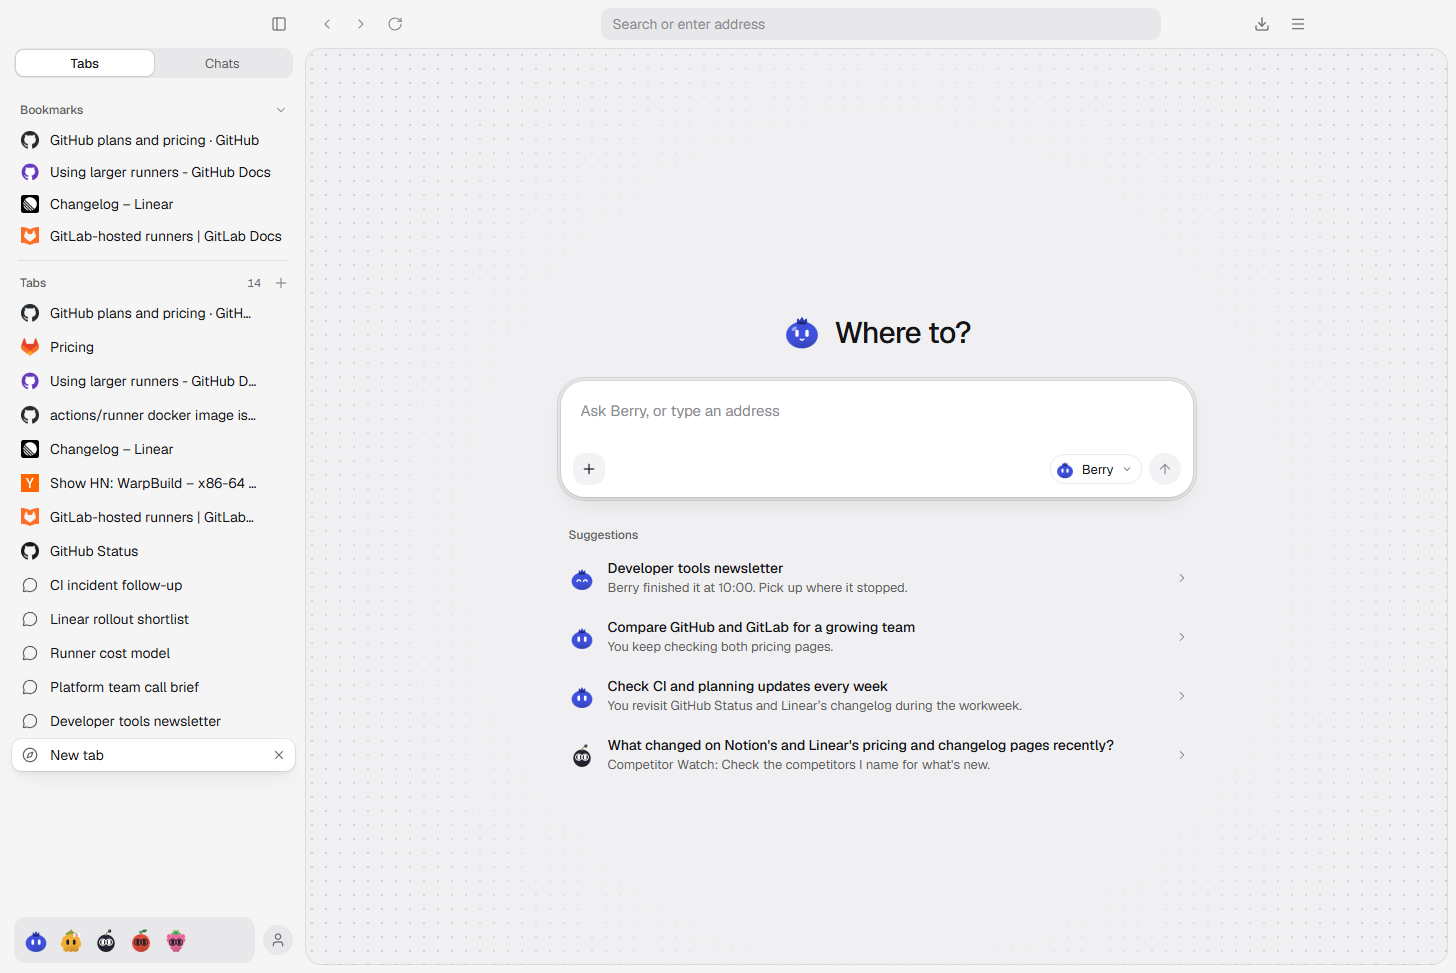
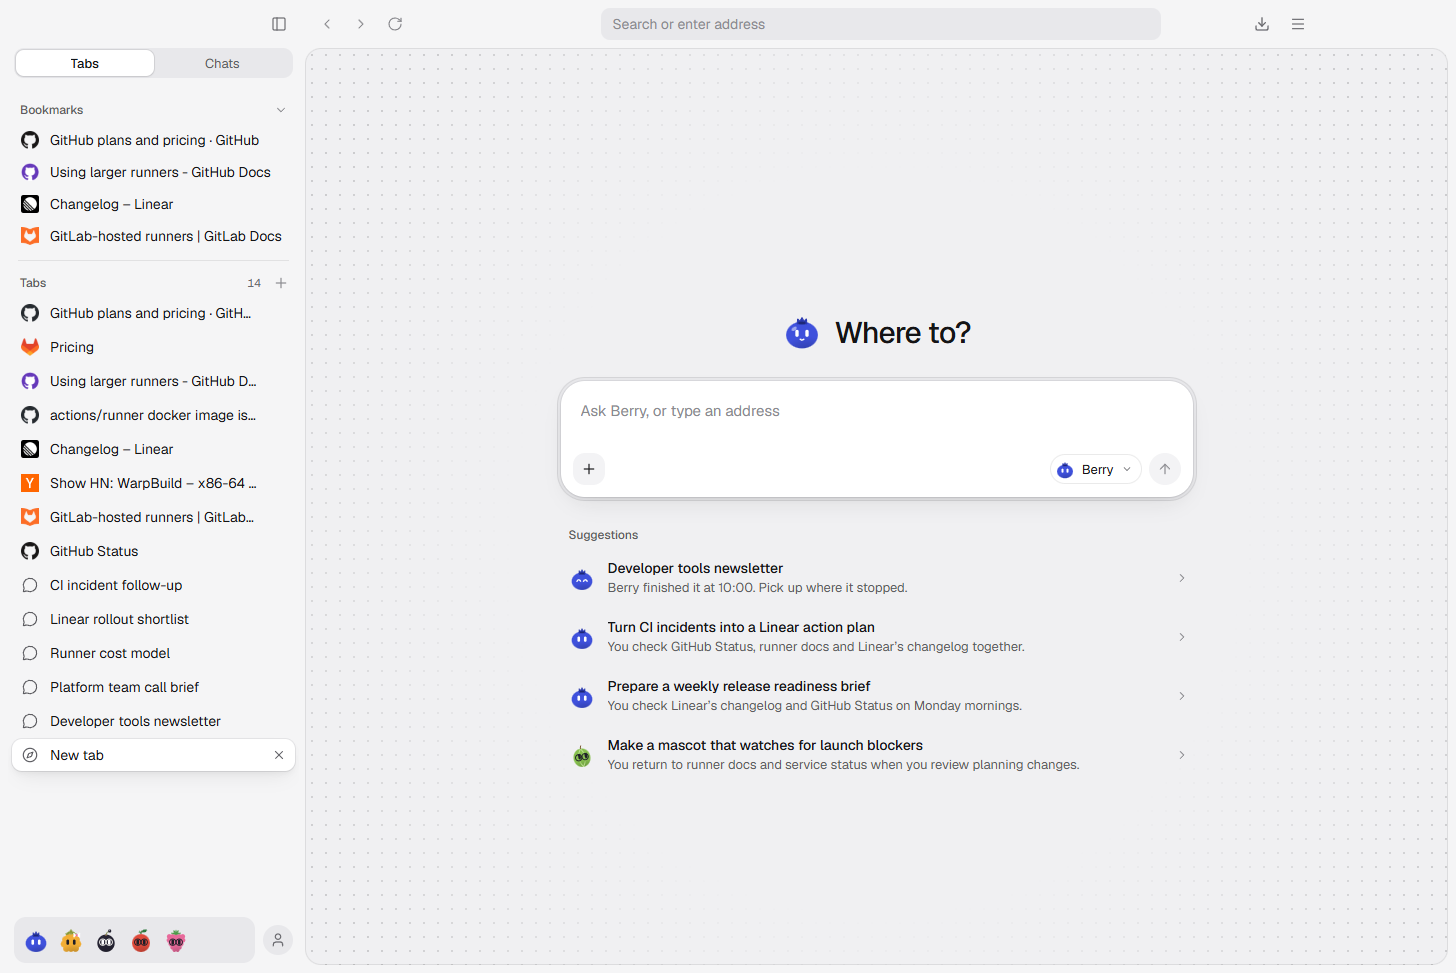
Restore the original README feature descriptions

Changed region(s): [[0.3709, 0.6166, 0.7727, 0.8016]]

diff --git a/README.md b/README.md
@@ -1,55 +1,93 @@
 # Blueberry
 
-Blueberry is an AI browser that can do jobs in your tabs. Ask Berry to research a question, compare sites or follow a process you repeat. Watch it work beside the chat and step in when it needs you.
+An AI browser that works on your behalf. Make mascots for the jobs you repeat, and it notices what you do and offers to take it over.
 
-![Berry compares GitHub and GitLab plans while the GitHub pricing page is visible beside the chat](docs/images/working-view.webp)
+![The new tab page suggests turning CI incidents into a Linear action plan, preparing a weekly release-readiness brief, and setting up a mascot to watch for launch blockers](docs/images/new-tab.webp)
 
 ## What it does
 
-### Browse and work in the same window
+Blueberry is a full web browser, one you can use every day even without the AI: tabs, history, bookmarks, downloads, find, zoom and site permissions, in a quiet light-grey window with white sheets for pages. Berry, a blueberry, does jobs in the browser when you ask, and you can make a small family of berries beside it, each with its own name, look, instructions and limits.
 
-Blueberry has tabs, history, bookmarks, downloads, find, zoom and site permissions. Choose a vertical sidebar or horizontal tabs, and a light or dark appearance. Small grids of dots show what a mascot is doing and when it needs you.
-
-The new tab page is where you type an address or ask a mascot to do something. It shows jobs waiting for you and suggests chats to pick up, jobs to try, or routines and mascots based on your recent activity. Import history from Chrome, Brave or Edge to help it get started. On macOS you can also import from Arc.
-
-![The new tab page suggests comparing GitHub and GitLab and checking weekly updates from GitHub Status and Linear](docs/images/new-tab.webp)
+Strawberry has all of that too. The sections below are where Blueberry tries to do better than Strawberry does today, each starting from what's missing there. What I say about Strawberry is how I understand it as of November 2026.
 
 ### Jobs that keep going when you leave
 
-A job can open tabs behind yours. The working view shows live pictures of the tabs it uses, so you can follow along without leaving the chat. Save a job as a routine to run it on a schedule.
+Strawberry's routines run on your own computer, so they only run while it's open and awake. The Monday 08:00 report doesn't happen if the laptop is closed in your bag, and a long job means leaving the lid open with the browser busy until it's done. You end up working around your computer's schedule.
 
-With a cloud browser and a runner set up, cloud jobs and routines keep going while your computer is off. You can bring along sign-ins for sites you choose. The phone page lets you start cloud jobs, review approvals and take over when a site needs you. For jobs running on your computer, you can connect your own Telegram bot to answer from your phone.
+In Blueberry, a job or scheduled routine can run in a browser in the cloud instead. With the runner set up, close the laptop on the train and the job keeps going. The morning routine runs at 08:00 whether the Mac is on or not, and the summary is there when you open it. The job gets its own browser on Browserbase, signed in to the sites you chose to bring along, so it never takes over your tabs or slows your computer down. A small runner on Railway starts and follows it with the Mac off, as the same mascot with the same limits and the same approvals as at your desk. You can start one from the phone app, or from ChatGPT or Claude, wherever you are.
 
-### Your mascots and the Gallery
+![Berry compares larger runners in a cloud chat with GitHub Docs visible in the working view](docs/images/cloud-chat.webp)
 
-Berry is the built-in blueberry mascot. A profile that starts with only Berry also gets four starters from the Gallery. They are Plain Words, Competitor Watch, Meeting Prep and Newsletter Builder. The Gallery also includes Prospector, Follow-up, Lead Qualifier, Talent Scout and Pipeline Tidy.
+### Answering from your phone
 
-Make your own mascot with a name, a berry look, instructions and limits on its sites and tools. A mascot can suggest remembering a preference after a job. You choose what it keeps and can remove it later.
+Strawberry marks a chat that needs you, for a sign-in or anything else, but only on the computer. That's where agents lose most of their time: not doing the work, but waiting for you. Start four jobs before lunch, one stops for a 2FA code and another for a yes, and you come back an hour later to two jobs that never moved.
 
-You can review a Gallery mascot's instructions and permissions before adding it. With publishing set up, you can share a mascot's public page. Open in Blueberry takes the reader to that mascot's review.
+In Blueberry, you can answer job approvals and questions from your phone. With notifications on, it buzzes at the table, you tap Allow or type the code, and the job carries on while you eat. You come back to finished work instead of a queue of questions, so the hour away still counted. Jobs in the cloud show up in the phone app, which you add to your home screen, and where you can start a new job on the way back too. Jobs on your Mac come through your own Telegram bot. On either you can allow or refuse a step or answer a question. For a cloud sign-in you type the code into the live page, and for a job on your Mac the Telegram bot can pass the code to the held tab without giving it to the model. With several cloud jobs running at once, it's one list on your phone for all of them, so none of them sits idle waiting for you. Telegram is a channel behind a small interface, so WhatsApp or iMessage could come next.
 
-![Your mascots in dark mode, with Berry and the four starters added to a new profile](docs/images/your-mascots.webp)
+![A cloud job on the phone asks to open filtered GitHub issues, with Allow and Don't allow](docs/images/phone-approval.webp)
+
+### Your mascots, from ChatGPT and Claude
+
+Strawberry lets you connect MCP servers to it, but it isn't one itself, so nothing else can use it. Most people will keep ChatGPT or Claude open next to whatever browser they use, so Blueberry doesn't try to replace them. It gives them your browser. Claude Code and Claude Desktop on the same computer can hand whole jobs to your mascots over MCP, enabled in Settings > Connections > Claude and other apps, and with the runner and relay set up, so can ChatGPT and Claude on the web. The chat keeps its threads and plans, and the mascot brings your logins and what it sees in the browser. Plan outreach in ChatGPT, then ask it to have a mascot find the twenty leads, and it does it in your browser, signed in. You get something out of Blueberry without switching browsers all at once, which also fits where Strawberry seems to be heading, as an agent platform rather than only a browser.
+
+![A chat from Claude Code shows Berry’s runner migration brief](docs/images/claude-code.webp)
 
 ### Show Berry how
 
-Open Show Berry how from Routines, do the job once in the browser and press **Done**. Read the notes, leave out any steps you don't need, and turn what's left into a draft routine. It watches the tab in front while recording and keeps passwords out of the notes.
+Strawberry's advice for making a routine is to talk it through with your companion, which still means describing the job well enough in words, and that's harder than doing it. It has no built-in way to just show it. In Blueberry you press Show Berry how, do the job once, and press **Done**. Berry writes up what it saw as notes you can read and trim, and a cheap model turns them into a routine with numbered steps and the values that might change. It watches only the tab in front, only between start and **Done**, and never keeps what's typed into a password or payment field.
 
-![The What I watched page shows the steps Berry recorded while researching hosted runners and a button to turn the notes into a routine](docs/images/show-berry-how.webp)
+![The recording review shows seven steps for researching larger runners before turning them into a routine](docs/images/show-berry-how.webp)
 
-### Use Blueberry from other apps
+### The Gallery
 
-You can turn on Berry on the desktop and start a browser job from another app. The desktop mascot works in Blueberry's tabs.
+Strawberry gives each companion a public page you can send to someone, and nine official companions to pick from, but there's nowhere to browse what other people made. That's a real gap: a new user often can't see why they'd want more than one assistant. The Gallery shows them: browse the mascots other people use for sales, recruiting or research, and add one before you've even thought of the job yourself. It also doubles as marketing, since people share their mascots and see how often they're added. It has starter mascots for work, such as Prospector, Meeting Prep and Competitor Watch, and, with a server set up, the mascots other people published. Every entry shows its instructions and permissions word for word before you add it, and the copy is yours from then on. Each published mascot also has a public page you can send to a colleague, whose Open in Blueberry button opens its review in the app through a `blueberry://` link. A link never adds or runs anything.
 
-Claude Code and Claude Desktop can hand jobs to Blueberry through the local MCP connection. With the cloud relay set up, ChatGPT and Claude can start jobs too. You can also opt in to running relay jobs on your Mac while Blueberry is open.
+![The Gallery shows the starter mascots and what each one is for](docs/images/gallery.webp)
+
+### Suggestions that keep coming
+
+The hard part of a new agent is knowing what to ask it. Strawberry uses onboarding to make its first suggestions. Its companion reads your imported history and what you tell it, then suggests your role, apps to connect and a first task, and the Routines page offers routine ideas such as a morning summary or industry news. Strawberry also offers personalized ideas in its Knowledge hub. I haven't seen it suggest a new companion based on repeated browsing. In Blueberry, suggestions on the new tab page keep coming from what you actually do. At most about once an hour, a cheap model reads a digest of your recent browsing, chats and routine runs and proposes a prompt, a routine or a new mascot, and code checks each one against what it cites before it shows. They change as your week does. On the first day, Blueberry can bring in the last 90 days of history from Chrome, Brave or Edge, or from Arc on a Mac, in Settings > Privacy > Bring in history, so the first suggestions are already about you.
+
+![Berry compares GitHub and GitLab plans with the GitHub pricing page beside the chat](docs/images/working-view.webp)
+
+### Berry on the desktop
+
+In Strawberry, work starts inside the browser, but most work happens in other apps. You're in Slack or Mail, see something worth looking into, and hand it to Berry with `Alt+Space` (`⌥Space` on a Mac) without switching apps. Turned on in Settings > Mascots > On your desktop, Berry waits tucked behind an edge of the screen, above every app. The job runs in the browser where you're signed in. It never reads the screen, the clipboard or another app. Later it could work on the desktop itself.
+
+![Berry’s desktop composer is open at the edge of the Windows screen](docs/images/desktop-berry.webp)
+
+### Next: Nests, instead of chat threads
+
+Work with AI agents still happens in chat threads. Each thread starts from zero, so you explain the job again every time you open a new one, and five jobs running at once means five threads to scroll through. I'm trying a different shape on the [`nest`](https://github.com/Luddeforsberg/blueberry-browser/tree/nest) branch. A Nest is a board where each card is one mascot's chat. A line from one card to the next means the second continues from the first, with everything the cards before it found. Ask for something bigger and Berry lays it out as cards you can change before anything runs. A card with a table can run once for each row, and the board keeps growing over days rather than finishing. It's still being built, so it isn't on `main` yet.
+
+To try it: `git checkout nest`, then follow [Running it](#running-it).
+
+### The rest
+
+Your mascots, routines on a schedule, jobs that work in tabs behind yours with a live picture of them beside the chat, and mascots that keep a habit only when you say yes and show every word they keep. Strawberry has all of these, and they work much the same here. Blueberry needs them because everything above is built on them. The same goes for the safety rules below, which every AI browser needs.
+
+The Your mascots page starts with Berry, Plain Words, Competitor Watch, Meeting Prep and Newsletter Builder on a fresh profile.
+
+![Your mascots shows Berry and the four starter mascots with their limits in dark mode](docs/images/your-mascots.webp)
+
+## How it grows
+
+Three of the features above are also how Blueberry gets users and keeps them.
+
+- **Every shared mascot is a landing page.** A published mascot gets a public page showing what it's told, what it's allowed to do, and an Open in Blueberry button. People share the mascots they make, the add count tells the next person it's worth trying, and each share brings someone new to Blueberry.
+- **It starts where people already are.** Through the relay, people in ChatGPT and Claude can use your mascots without switching browsers. They get something out of Blueberry first and switch later.
+- **It keeps giving people a reason to come back.** Most people drop a new agent because they don't know what to use it for. Strawberry uses onboarding preferences for new-tab suggestions. In Blueberry they keep coming from what you actually do, including new mascots for the jobs you repeat, so a week in there's still something new worth handing over. Importing your history means even the first ones are about you.
 
 ## Safety
 
-- By default, a mascot asks before taking an action the app marks as risky. The approval card shows the exact action and why it needs permission. If the page changes after you allow it, the action is canceled. Cloud runner jobs ask at least as often as the default setting.
-- Blueberry enforces a mascot's site and tool limits in the browser tools.
-- A mascot hands over the tab for a sign-in, code or CAPTCHA and waits until you give it back. Only you can approve an action or complete a handoff.
-- The working view sends its pictures only to the browser window.
+- By default, a mascot stops before anything risky on an approval card with the exact sentence of what will happen, and does nothing if the page changed after you allowed it. A job on the cloud runner never asks less than that.
+- Blueberry enforces a mascot's limits in the tool layer, where they can only narrow what it can do.
+- A mascot never asks for a password or code. A sign-in, code or captcha is handed to you in its tab, which no job can reach until you're done, and a code sent through Telegram for a local job is typed by code the model can't call. The model is only told that a code went in.
+- Only you can answer an approval. No MCP app, relay client or cloud runner can.
+- The working view's pictures go only to the window, never to the model or the disk, and a cloud live view never goes to the model.
+- No service key is in the repo, the app or the runner. Everything uses Supabase's publishable key and a signed-in user's session.
 
-![Berry asks permission to open a GitHub search, with the full address shown on the card](docs/images/approval.webp)
+![An approval card gives the full address Berry wants to open on GitHub](docs/images/approval.webp)
 
 ## How it's built
 
@@ -73,9 +111,9 @@ cp .env.example .env    # set LLM_PROVIDER and one key, OPENAI_API_KEY or ANTHRO
 pnpm dev
 ```
 
-You can also enter an AI key during first run or in Settings > Connections > AI service. If you use an environment file with a packaged app (`pnpm exec electron-builder --dir`), place it in the app's user data folder. On a Mac that is `~/Library/Application Support/blueberry-browser/`.
+A packaged app (`pnpm exec electron-builder --dir`) doesn't bundle `.env`. It reads it from its user data folder, `~/Library/Application Support/blueberry-browser/.env` on a Mac, so copy it there.
 
-Accounts, publishing and remote jobs need additional setup.
+That's the whole browser, with Berry, Your mascots, routines, Suggestions, Show Berry how, Needs you and the bundled Gallery. The rest needs something set up:
 
 - **Accounts and publishing to the Gallery** need a Supabase project with the migrations in `supabase/migrations`, and `SUPABASE_URL` and `SUPABASE_PUBLISHABLE_KEY` in `.env`.
 - **The public mascot pages and the phone page** are in `site/`, deployed to Netlify with `pnpm run site:deploy` after setting `site/config.js`.
@@ -87,7 +125,6 @@ Accounts, publishing and remote jobs need additional setup.
 | `pnpm install` | Install dependencies |
 | `pnpm dev` | Run the app with hot reload |
 | `pnpm run typecheck` | Typecheck main, preload, tests and renderers |
-| `pnpm run format:check` | Check formatting with Prettier |
 | `pnpm run lint` | Lint. Any warning or error fails, and a comment can't turn a rule off: change it in `eslint.config.mjs` |
 | `pnpm run test` | Run unit tests in `src/` with Vitest |
 | `pnpm exec electron-vite build` | Build into `out/` |
